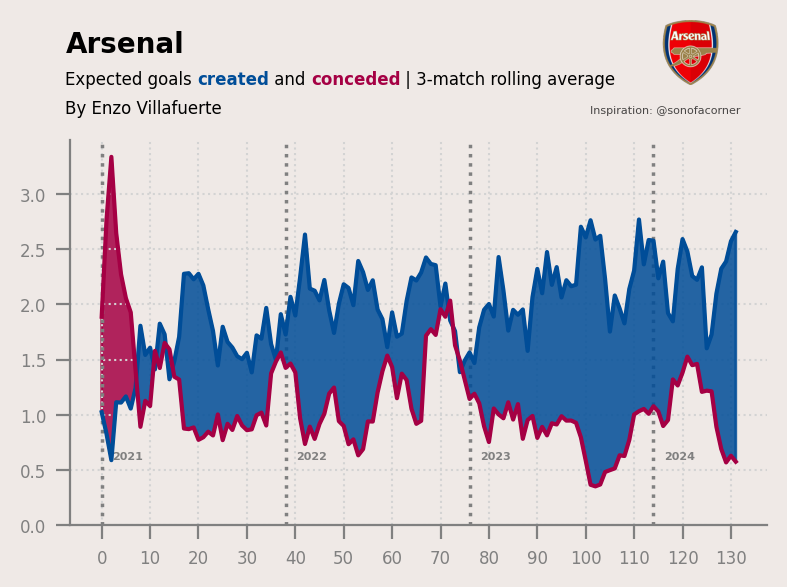
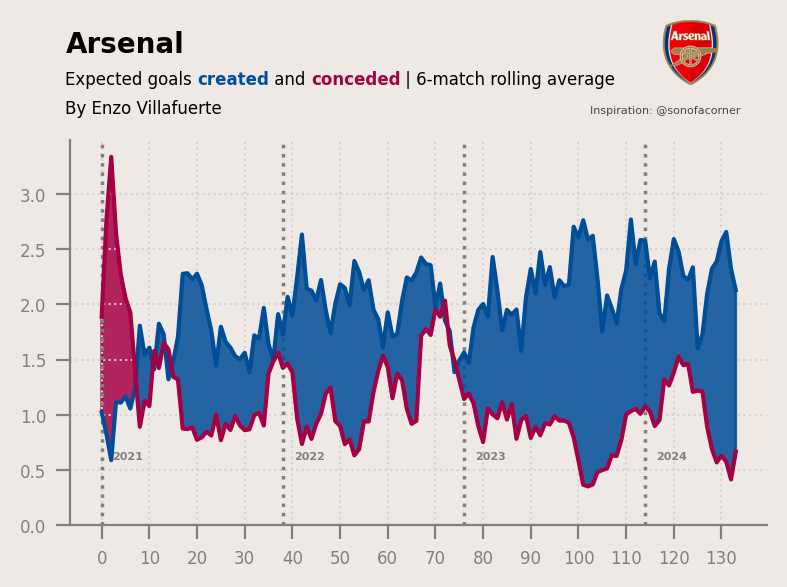
Minor modifications

diff --git a/xg_moving_average/xg_moving_average.py b/xg_moving_average/xg_moving_average.py
@@ -131,8 +131,10 @@ X = pd.Series(range(len(Y_for)))
 # Compute the rolling average (min_periods is used for the partial average)
 # 3 game rolling average
 
-Y_for = Y_for.rolling(window=6, min_periods = 0).mean()
-Y_ag = Y_ag.rolling(window=6, min_periods = 0).mean()
+rolling_avg = 6
+
+Y_for = Y_for.rolling(window=rolling_avg, min_periods = 0).mean()
+Y_ag = Y_ag.rolling(window=rolling_avg, min_periods = 0).mean()
 
 #####
 # Plot the data
@@ -274,7 +276,7 @@ fig_text(
 
 fig_text(
     x=0.12, y=1.02,
-    s = f"Expected goals <created> and <conceded> | 6-match rolling average\nBy Enzo Villafuerte",
+    s = f"Expected goals <created> and <conceded> | {rolling_avg}-match rolling average\nBy Enzo Villafuerte",
     highlight_textprops = [
         {"color": line_1[0].get_color(), "weight": "bold"},
         {"color": line_2[0].get_color(), "weight": "bold"}
@@ -331,3 +333,4 @@ print('Success')
 # python xg_moving_average/xg_moving_average.py Arsenal
 # python xg_moving_average/xg_moving_average.py Girona
 # python xg_moving_average/xg_moving_average.py Real_Madrid
+# python xg_moving_average/xg_moving_average.py Bayern_Munich

diff --git a/xg_moving_average/streamlit/app.py b/xg_moving_average/streamlit/app.py
@@ -88,8 +88,9 @@ if selected_team:
             lambda row: row['xG_a'] if row['h_title'] == selected_team else row['xG_h'], axis=1
         )
 
-        Y_for = df['team_xG'].rolling(window=6, min_periods=0).mean()
-        Y_ag = df['team_xGA'].rolling(window=6, min_periods=0).mean()
+        # Rolling
+        Y_for = df['team_xG'].rolling(window=1, min_periods=0).mean()
+        Y_ag = df['team_xGA'].rolling(window=1, min_periods=0).mean()
         X = pd.Series(range(len(Y_for)))
 
         # Plot
